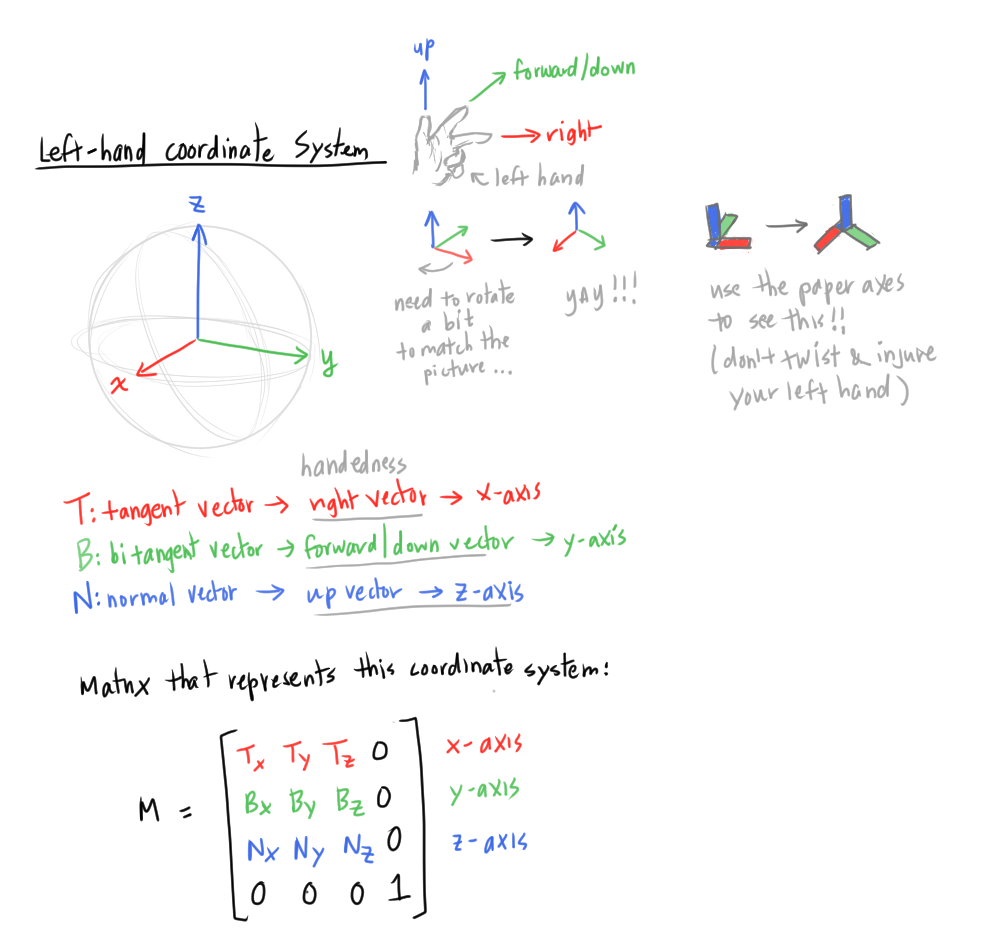
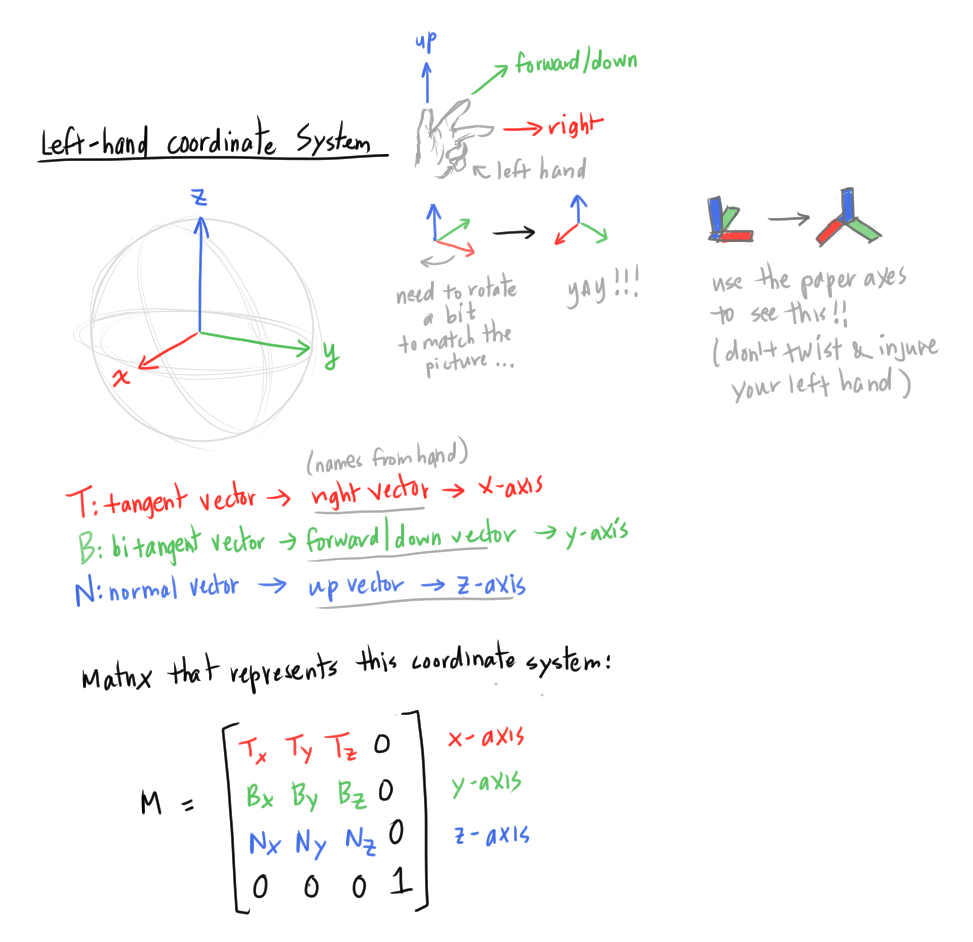
Explain da pics

diff --git a/scratch-a-pixel/notes/02-geometry/08-spherical-coordinates-trig/README.md b/scratch-a-pixel/notes/02-geometry/08-spherical-coordinates-trig/README.md
@@ -166,13 +166,47 @@ The coordinate values are the same for each axis, (ex. x-axis is labeled as `(1,
 In previous chapters, we've been using the right-hand coordinate system when we were describing things in the World Coordinate System.
 
 But since the convention in shading uses the *left-hand coordinate system*, when we say we convert from the World Coordinate System (where the up vector is the y-axis) to the Local (target) coordinate system (where the up vector is the z-axis), the World Coordinate System is left-handed!!
-* (the notes totally don't tell you this so I was so confused why the values were flipped in their calculations... 😑 UGH it sucks that you don't know if things are typos or you're just stupid or what)
+* (the notes totally don't tell you this so I was so confused why the values were flipped in their calculations... 😑 UGH it sucks that you don't know if things are typos, because there are typos that show up often, or you're just stupid or what)
 * (I also don't know if the above is the correct assumption, but whatever. Can't do anything about it...)
 * ("scratchpixel uses the right-handed coordinate system" they said...)
 
-TODO: Explain the pictures
+The *local coordinate system* in the following sections will mean the *left-handed* coordinate system where:
+* The right vector is the x-axis
+* The forward/down vector is the y-axis
+* The up vector is the z-axis
+
+which is the convention used in shading.
+
+### Orientation matrix of local coordinate system
+
+To derive the orientation matrix that describes a local coordinate system where the up vector is the z-axis:
+* Place the tangent vector `T` in the first row of the matrix (the x-axis)
+* Place the bi-tangent vector `B` in the second row (the y-axis)
+* Place the normal vector `N` in the third row (the z-axis)
 
 ![Derive matrix that converts to local](images/convert-to-local-matrix.png)
 
+### Matrix that transforms from world space to local coordinate system
+
+*World space* labels the up vector as the y-axis and the local coordinate system labels the up vector as the z-axis. To derive the matrix that converts vectors from world space to the local coordinate system:
+* The x-axis is the same in both world space and local, so the first row is still `(1,0,0)`
+* The local coordinate system has the y-axis where the world coordinate system has the z-axis, which is at `(0,0,1)`, so this becomes the second row of the matrix, which becomes the y-axis in the local coordinate system.
+* The local coordinate system has the z-axis where the world coordinate sytem has the y-axis, whcih is at `(0,1,0)`. so this becomes the third row of the matrix, which becomes the z-axis in the local coordinate system.
+
+![Deriving conversion matrix](images/deriving-conversion-matrix.png)
+
+Let's apply a conversion of a vector in world space: `v = (0,1,0)`, which is aligned to the y-axis (the up vector) in world space:
+```
+v' = v * M
+```
+
+The matrix multiply (which applies the coordinate system conversion) results in `v' = (0,0,1)`, which is now parallel to the z-axis (the up vector in the local coordinate system).
+
 ![Applying the coordinate system conversion](images/apply-coordinate-system-conversion.png)
+
+(Their explanation is confusing because `(0,0,1)` is clearly *not* aligned with the up vector in either coordinate system was zum Teufel)
+
+(The way I see it, which makes sense, is the y-axis in world space is `v=(0,1,0)`, and `v'=(0,0,1)` is the y-axis in the local coordinate system. Makes sense! Why is this not stated anywhere? Is this not the way to see this conversion??? -sigh- -cry-
+
+Basically the conversion switches the y and z coordinates. <--- is what they say
 
